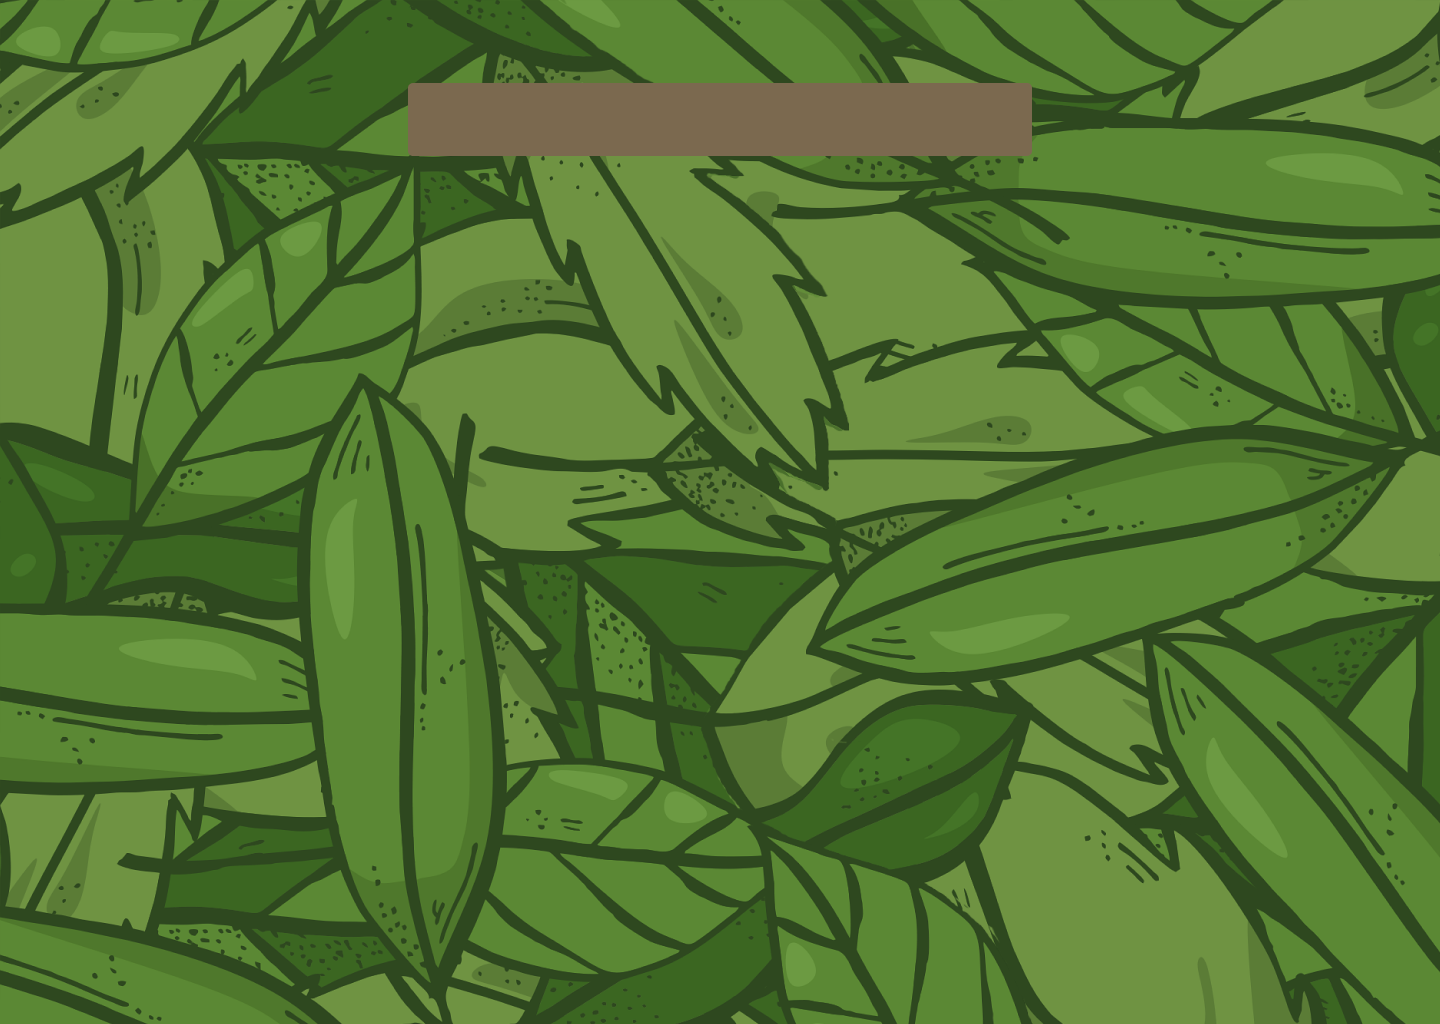
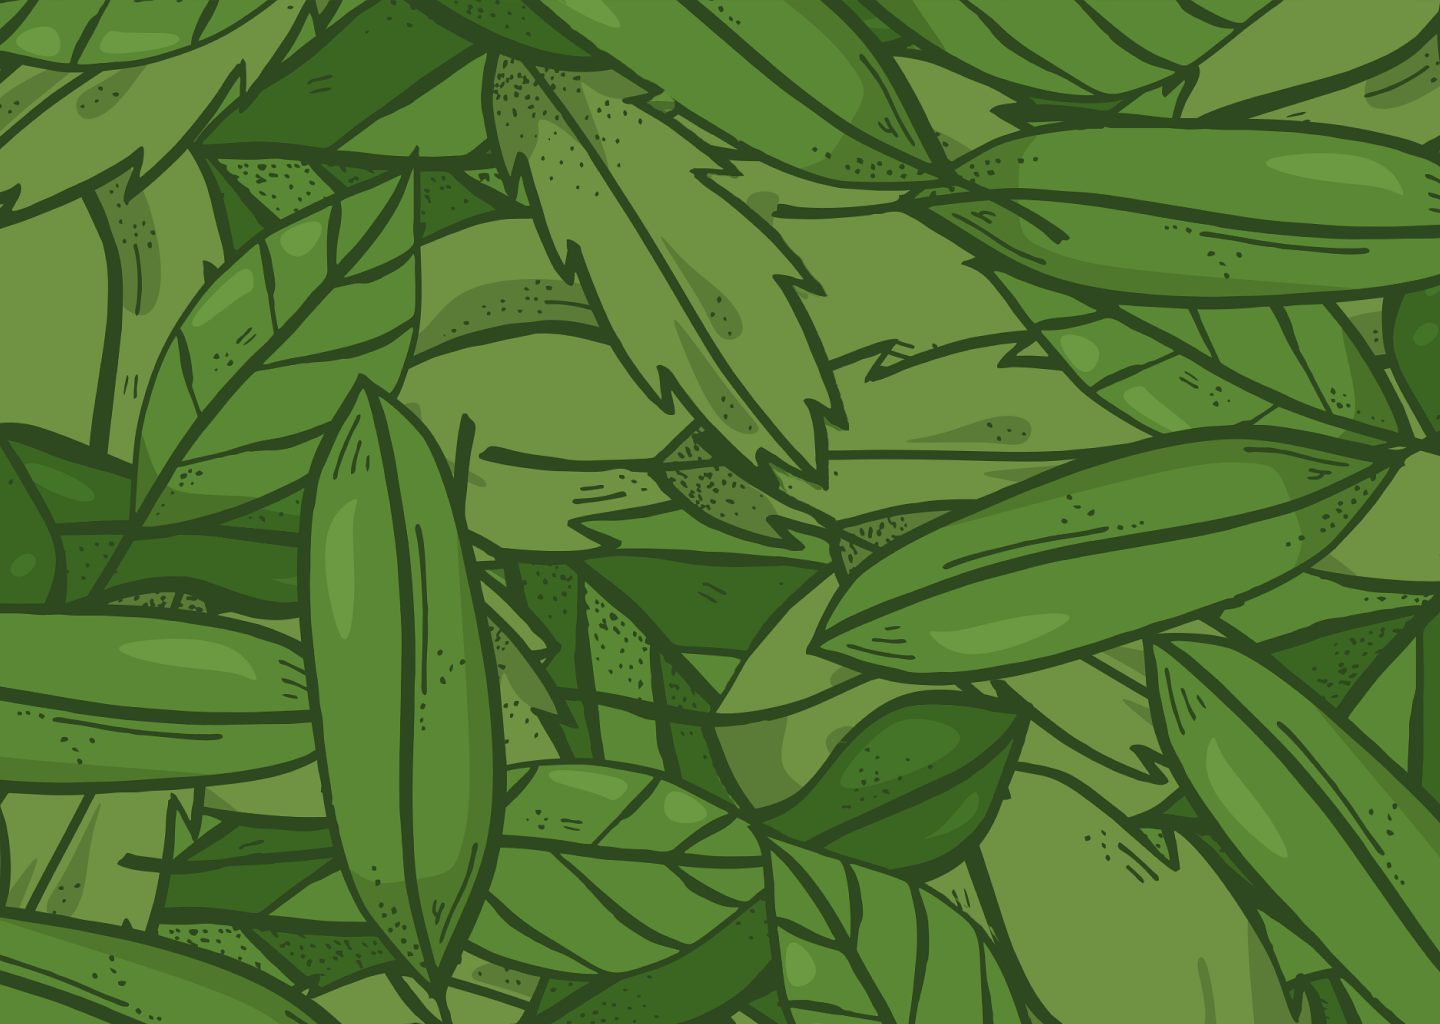
Made basic frontend startup page for ConversAItionELLE

Changed region(s): [[0.2812, 0.0625, 0.7188, 0.1562]]

diff --git a/templates/pages/games/talkwithtito.tsx b/templates/pages/games/talkwithtito.tsx
@@ -1,18 +1,39 @@
 "use client"
 
+// Their CSS files
 import "@/public/static/css/style.css";
-import "@/lib/font-awesome/css/font-awesome.min.css";
-import "@/lib/owlcarousel/assets/owl.carousel.min.css";
 import "@/lib/ionicons/css/ionicons.min.css";
-import {useState, useEffect, useRef} from "react";
+import "@/lib/font-awesome/css/font-awesome.min.css";
+
+// Our CSS files
 import "@/public/static/css/talkwithtito.css";
+
+//Image imports
 import coming_soon from "@/public/static/images/ConversAItionELLE/coming_soon.png";
 import tito_speak from "@/public/static/images/ConversAItionELLE/tito.png";
+import happyTito from "@/public/static/images/ConversAItionELLE/happyTito.png";
+
+// Component imports
+import {useState, useEffect, useRef} from "react";
 import Image from "next/image";
 
+
+
+
 export default function TalkWithTito(){
-  const titoStatements:string[] = ['Tito is creating a new dish', 'Tito is freshening up', 'Tito is taking a nap']
+  const titoStatements:string[] = ['Tito is creating a new dish...', 'Tito is freshening up...', 'Tito is taking a nap...']
   const titoStatementsRef = useRef<string[]>(titoStatements)
+  const [isLoading, setIsLoading] = useState(false);
+
+  //Handles play button click
+  const handlePlayClick = () => {
+    if(isLoading) {
+      return;
+    }
+    else {
+
+    }
+  }
 
   // Cycle through Tito Statements (practice for loading screen)
   const [statement, setStatement] = useState<string>(titoStatementsRef.current[0]);
@@ -28,18 +49,25 @@ export default function TalkWithTito(){
   }, [index])
 
   return (
-    <div className="header">
-    <div className="body">
-      <div className="game-container">
-        <Image src={coming_soon} alt="TalkWithTito placeholder" className="game-background"/>
-        <h2 className="text-overlay">{statement}</h2>
-        <h1 className="in-progress-overlay">Coming Soon</h1>
-        <Image src={tito_speak} alt="TalkWithTito placeholder" className="tito-overlay"/>
+      <div className="relative w-full mt-2 mb-2 flex justify-center">
+        <div className="relative w-[80%] h-fit border-2 border-black">
+          <Image src={coming_soon} alt="TalkWithTito placeholder" className="game-background"/>
+          {
+            isLoading ?
+            <Image src={tito_speak} alt="TalkWithTito placeholder" className="tito-overlay"/>
+            :
+            <Image src={happyTito} alt="Tito is ready" className="absolute w-[35%] top-[45%] left-[50%] -translate-x-1/2 -translate-y-1/2"/>
+          }
+          <div className="absolute top-[11.5%] left-[50%] w-fit -translate-x-1/2 -translate-y-1/2
+                        text-white text-2xl md:text-4xl font-semibold whitespace-nowrap select-none bg-[#997c54] py-2 px-6 border-2 border-black rounded irish-grover">{isLoading ? statement : "Talk With Tito"}</div>
+          <div className={`
+                          absolute top-[80%] left-[50%] w-fit -translate-x-1/2 -translate-y-1/2
+                        text-white md:text-4xl font-bold whitespace-nowrap select-none bg-[#997c54] py-2 px-6 border-2 border-black rounded irish-grover
+                          ${!isLoading ? "hover:bg-[#816031] hover:cursor-pointer" : ""}`}
+          onClick={handlePlayClick}>
+            {isLoading ? "Loading..." : "Play!"}
+          </div>
+        </div>
       </div>
-        
-    </div>
-    </div>
     );
-
 }
-

diff --git a/templates/public/static/css/talkwithtito.css b/templates/public/static/css/talkwithtito.css
@@ -1,3 +1,14 @@
+/* Tailwinds imports */
+@tailwind base;
+@tailwind components;
+@tailwind utilities;
+
+.irish-grover {
+  font-family: "Irish Grover", serif;
+  font-weight: 400;
+  font-style: normal;
+}
+
 /* Palm Tree Background */
 body {
     height: 115vh; /* Full viewport height */
@@ -13,10 +24,10 @@ body {
   /* Game container */
   .game-container{
     position: relative;
-    margin-top: 15%;
+    margin-top: 5em;
     width: 1100px;
     height: 650px;
-    margin-bottom: 10%;
+    margin-bottom: 5em;
   }
   .game-background{
     width: 100%;
@@ -26,10 +37,10 @@ body {
   /* Tito Picture */
   .tito-overlay{
     position: absolute;
-    width: 35%;
-    top: 50%;             
-    left: 50%;          
-    transform: translate(-50%, -50%); 
+    width: 45%;
+    top: 45%;
+    left: 50%;
+    transform: translate(-50%, -50%);
     animation: Tito-spin infinite 20s linear;
     transform-origin: center;
   }
@@ -47,19 +58,14 @@ body {
   .text-overlay{
     color: white;
     position: absolute;
-    top: 8.5%;             
+    top: 11.5%;             
     left: 50%; 
-    transform: translate(-50%, -50%); 
+    transform: translate(-50%, -50%);
   }
-  
-  .in-progress-overlay{
-    background-color: rgba(255, 255, 255, 0.7);
-    color: black;
-    text-align: center;
+
+  .play-loading-button {
     position: absolute;
-    width: 100%;
-    top: 50%;             
-    left: 50%; 
-    transform: translate(-50%, -50%); 
-    z-index: 2;
+    top: 0px;
+    left: 50%;
+    transform: translate(-50%, -50%);
   }

diff --git a/templates/public/static/css/style.css b/templates/public/static/css/style.css
@@ -11,6 +11,11 @@
 /*--------------------------------------------------------------
 # General
 --------------------------------------------------------------*/
+
+
+/*Font imports*/
+@import url('https://fonts.googleapis.com/css2?family=Irish+Grover&display=swap');
+
 body {
     background: #fff;
     color: #444;
